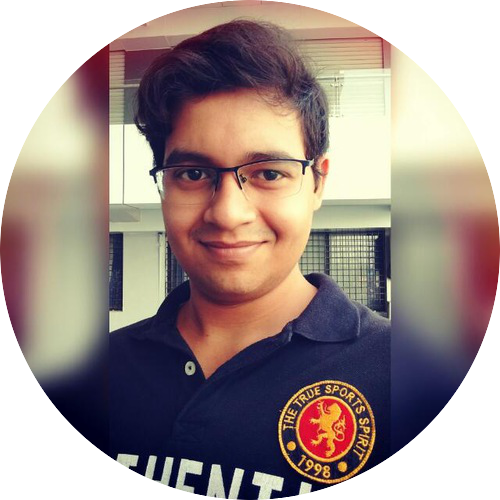
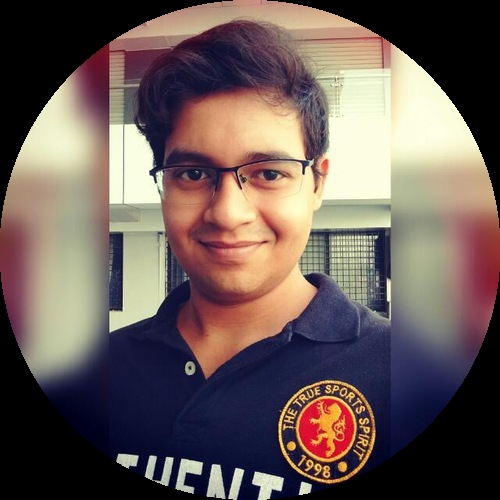
optimized pics

diff --git a/index.html b/index.html
@@ -60,10 +60,10 @@
 				<div class="col m3 c1" style="display: none" >
 					<div class="member-profile">
 						<div class="unhover_img">
-						<img src="img/team-1.png" style="background-color: #122;" />
+						<img src="img/team-1.png" alt="Harshit Singh" title="Profile-Pic" style="background-color: #122;" />
 						</div>
 						<div class="hover_img">
-						<img src="img/team-1.png" style="background-color: #122;"/>
+						<img src="img/team-1.png" alt="Harshit Singh" title="Profile-Pic" style="background-color: #122;"/>
 						</div>
 						<span>Core Team</span>
 						<h4><span>Harshit </span> Singh</h4>
